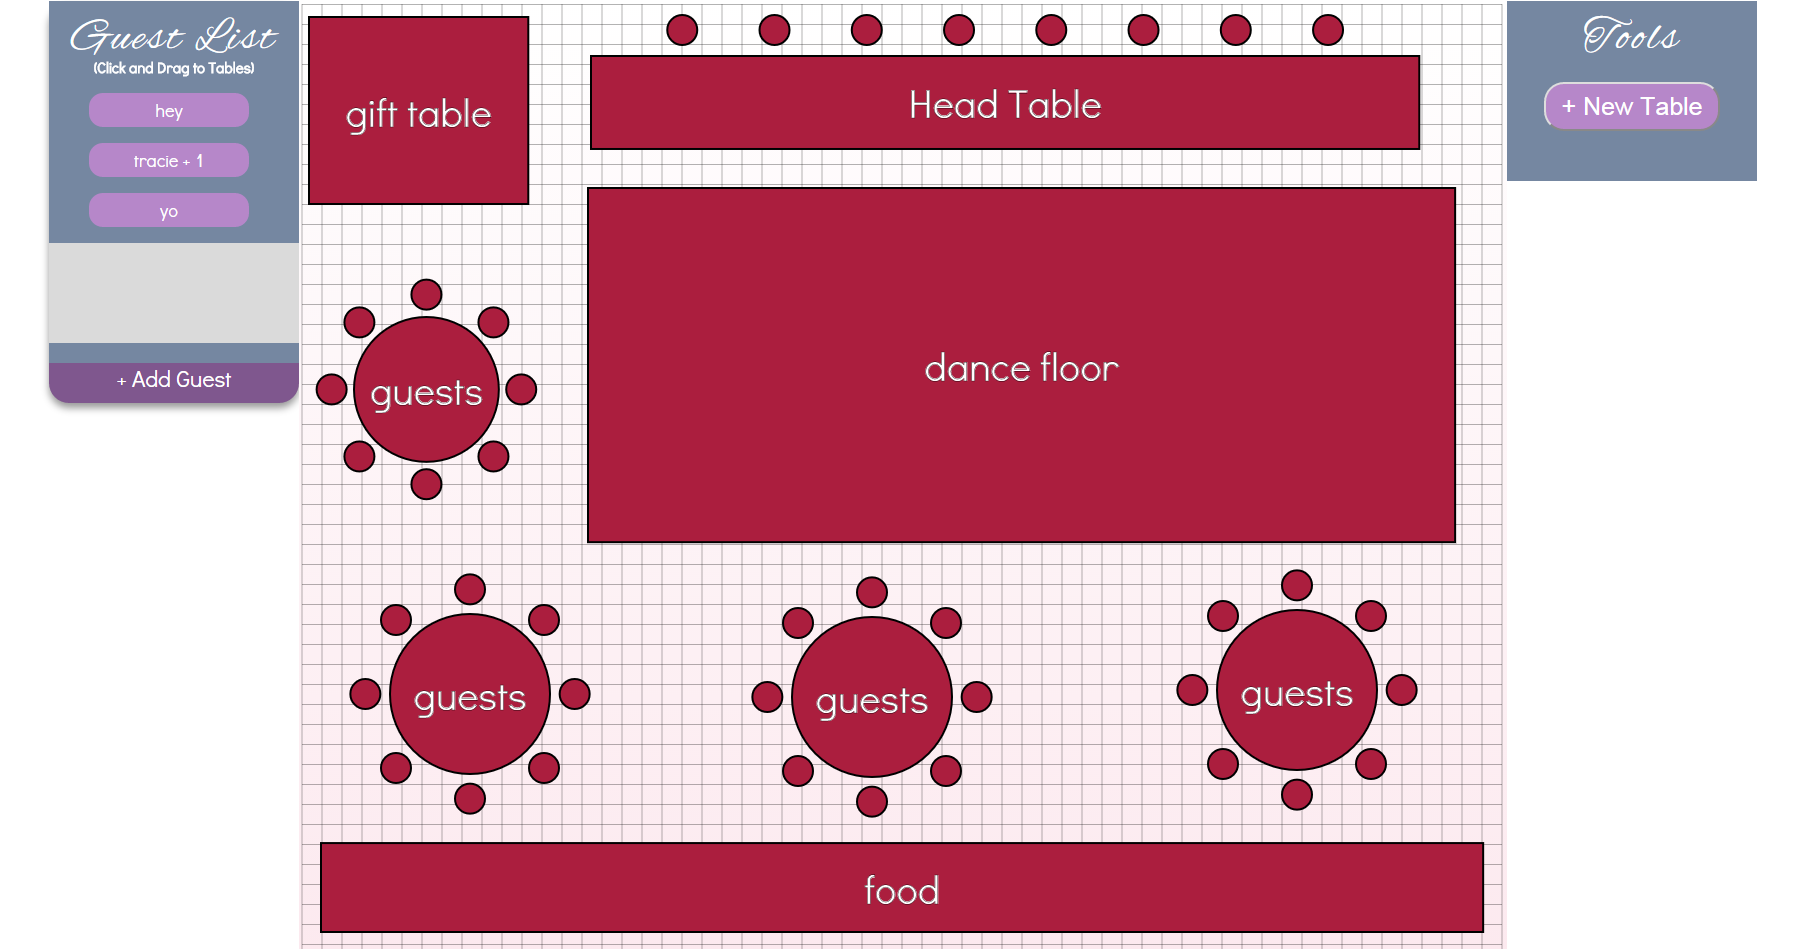
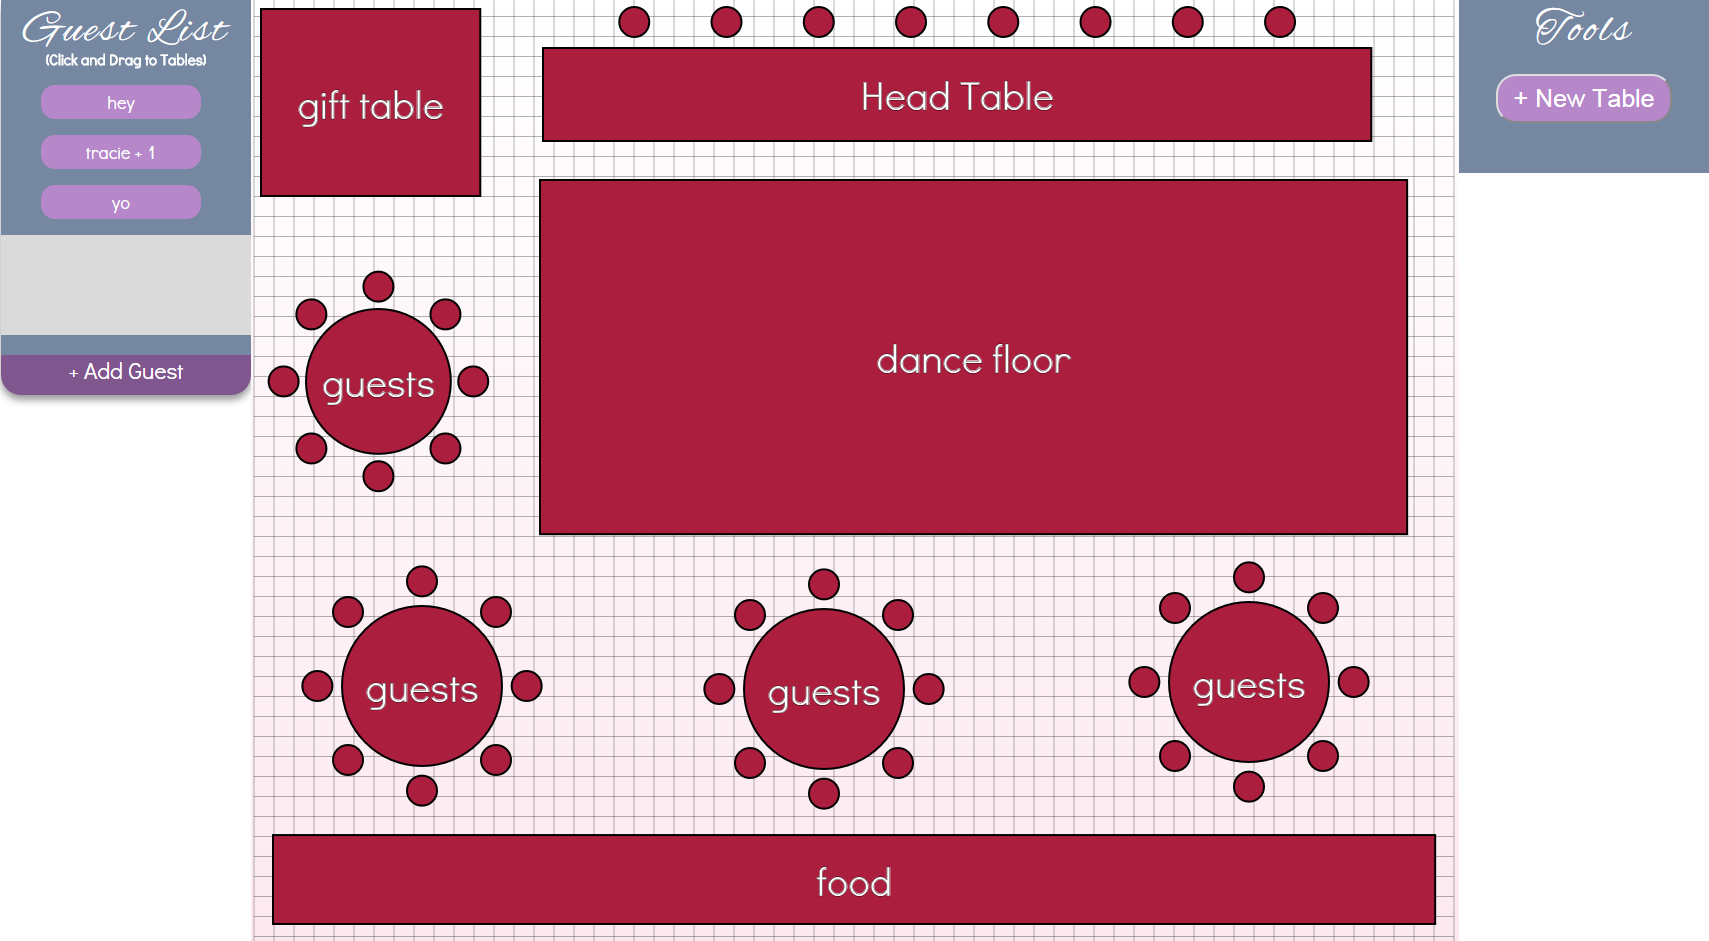
updated style on landing page. tried to do stuff with seating and showing that names moved

diff --git a/capstone/app/assets/stylesheets/landing.css.scss b/capstone/app/assets/stylesheets/landing.css.scss
@@ -266,7 +266,7 @@ nav {
 }
 
 #ideaFolder {
-  background-image: url("flower.jpg");
+  background-image: url("seatingCover6.jpg");
   background-repeat: no-repeat;
   height: 1000px;
   background-size: 100% 100%;
@@ -279,7 +279,7 @@ nav {
   font-size: 70px;
   margin-top: 100px;
   color: #7587a1;
-  width: 450px;
+  width: 700px;
   margin-left: auto;
   margin-right: auto;
 }
@@ -295,24 +295,24 @@ nav {
   font-family: Didact;
   font-size: 24px;
   color: #9871a8;
-  margin-top: -50px;
+  //margin-top: -50px;
 }
 
 .if_feature {
-  width: 500px;
+  width: 700px;
   height: 600px;
   text-align: center;
   float: left;
-  background-color: rgba(255,255,255,.9);
+  background-color: rgba(255,255,255,.8);
   border-radius: 20px;
   padding: 10px;
 }
 
 .if_feature img {
-  width: 500px;
+  width: 700px;
   height: 400px;
   object-fit: contain;
-  margin-top: -90px;
+  margin-top: -40px;
 }
 
 .if {
@@ -320,17 +320,17 @@ nav {
   font-size: 70px;
   margin-top: 50px;
   color: #420f55;
-  width: 400px;
+  width: 700px;
   margin-left: auto;
   margin-right: auto;
-  background-color: rgba(255,255,255,.9);
+  background-color: rgba(255,255,255,.8);
   border-radius: 20px;
   padding: 10px;
   text-align: center;
 }
 
 #ideas {
-  width: 520px;
+  width: 700px;
   height: 400px;
   margin-left: auto;
   margin-right: auto;

diff --git a/capstone/app/assets/stylesheets/seating.css.scss b/capstone/app/assets/stylesheets/seating.css.scss
@@ -146,6 +146,17 @@ footer a:hover {
 
 //seating css
 
+#imageDialog {
+  font-family: Didact;
+  font-size: 35px;
+  color: #fff;
+  -webkit-text-stroke: 1px black;
+}
+
+#imageDialog ul {
+  list-style-type: none;
+}
+
 #seating {
   width: 1800px;
   margin-left: auto;

diff --git a/capstone/app/assets/stylesheets/users.css.scss b/capstone/app/assets/stylesheets/users.css.scss
@@ -11,7 +11,7 @@
 #sign {
   background-image: url("signupCover2.jpg");
   background-repeat: no-repeat;
-  height: 1080px;
+  height: 1000px;
   background-size: 100% 100%;
   overflow: hidden;
   margin: 0px -8px 0px -8px;

diff --git a/capstone/app/controllers/seating_controller.rb b/capstone/app/controllers/seating_controller.rb
@@ -17,11 +17,16 @@ class SeatingController < ApplicationController
 
 
   def numOfSeats
-    @table = Table.where('id' => '30')
+    @table = Table.where(params[:tableId])
     @chairs = @table.num_of_seats
 
-    @guest = GuestList.where('id' => '231')
+    @guest = GuestList.where(params[:id])
     @chairFillers = GuestList.where(:group_id => @guest.id).count
+  end
+
+  def getTableId
+    @table = Table.where(params[:tableId])
+    @tableId = @table.id
   end
 
 end

diff --git a/capstone/app/controllers/tables_controller.rb b/capstone/app/controllers/tables_controller.rb
@@ -46,6 +46,8 @@ class TablesController < ApplicationController
           @table.update_attribute(:position, '100:100:0')
           if(params[:kind] == 'circle')
             @table.update_attribute(:size, '80')
+          elsif(params[:kind] == 'head')
+            @table.update_attribute(:size, '500:100')
           else
             @table.update_attribute(:size, '300:150')
           end

diff --git a/capstone/config/routes.rb b/capstone/config/routes.rb
@@ -45,9 +45,9 @@ Rails.application.routes.draw do
 
   post '/tables/:id' => 'tables#update'
 
-  get '/validateSeating' => 'seating#numOfSeats'
+  post '/validateSeating/:tableId/:id' => 'seating#numOfSeats'
 
-
+  post '/getTableId/:tableId' => 'seating#getTableId'
 
 
   # Example of named route that can be invoked with purchase_url(id: product.id)
